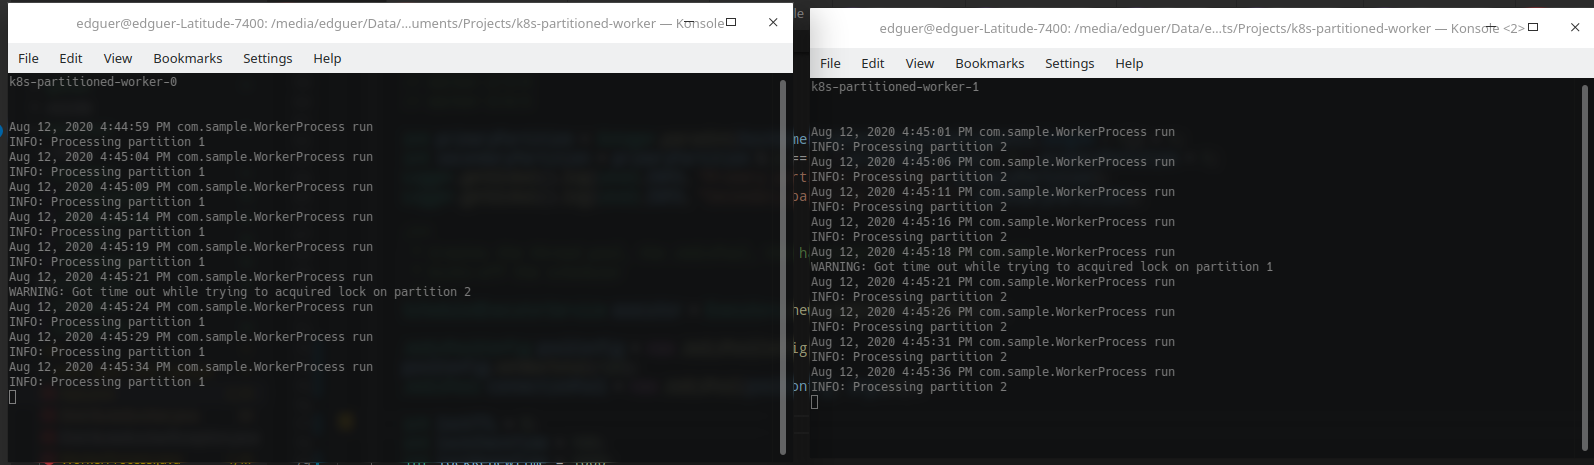
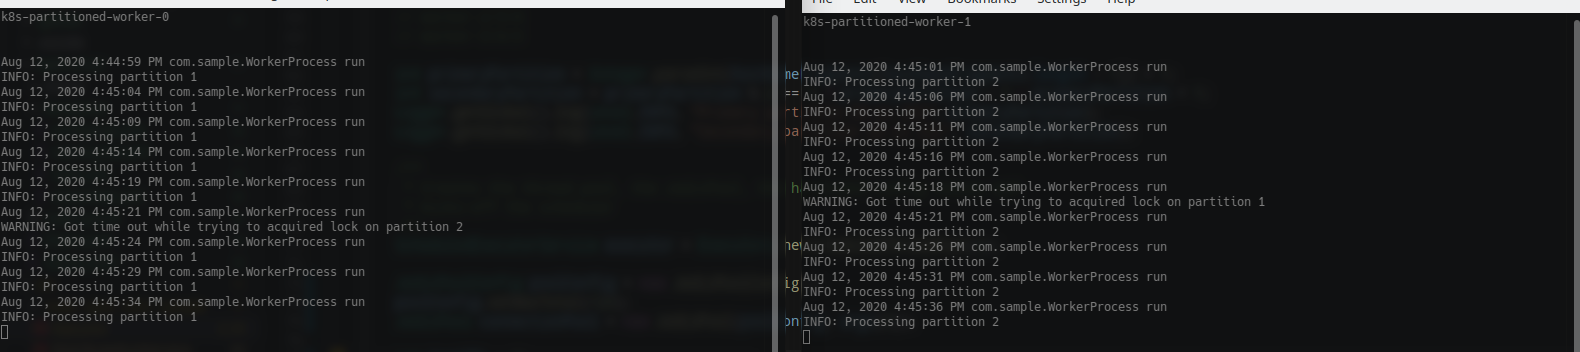
Finished documentation

diff --git a/README.md b/README.md
@@ -1,6 +1,6 @@
 # Kubernetes Partitioned Worker with Redis
 
-This is an example on how to build a partitioned batch worker for a Kubernetes cluster.
+This is an example on how to build a partitioned batch worker for a Kubernetes cluster in Java with Redis.
 
 ## Problem statement
 
@@ -27,7 +27,7 @@ For example, let's say we have a couple of workers:
 
 In a regular, healthy environment, worker1 will always process partition 1, and worker2 always processes partition 2. Now suppose the server2 goes down. What must happen is that worker1 will take both partition 1 and 2, and, as soon as worker2 comes back online, it starts processing the partition 2 again, so worker1 can release partition 2 and focus only on partition 1.
 
-However, how worker1 knows that worker2 stopped processing those items? Seems like RPC communication would solve it, but it would mean more complexity, exposing ports, standing up tiny RPC server threads (with gRPC, let's say), but turns out there is better solution if a shared memory cluster is at hand (such as Memcache or Redis): building a distributed locking system.
+However, how worker1 knows that worker2 stopped processing those items? Seems like RPC communication would solve it, but it would mean more complexity, exposing ports, standing up tiny RPC server threads (with gRPC, let's say), but turns out there is a better solution if a shared memory cluster is at hand (such as Memcache or Redis): building a distributed locking system.
 
 ### Failover and Locking
 
@@ -35,14 +35,79 @@ The idea is simple: mimic a regular multi-thread locking mechanism (```lock``` k
 
 ### Distributed Locker Implementation
 
-The distributed locker algorithm implementation reference can be found [here](https://redislabs.com/ebook/part-2-core-concepts/chapter-6-application-components-in-redis/6-2-distributed-locking/6-2-3-building-a-lock-in-redis/).
+The distributed locker algorithm implementation reference can be found [here](https://redislabs.com/ebook/part-2-core-concepts/chapter-6-application-components-in-redis/6-2-distributed-locking/6-2-3-building-a-lock-in-redis/). Notice that the implementation only works on a single master Redis deployment. For a multi-master locking algorithm, see the Redlock approach [here](https://redis.io/topics/distlock).
 
 ## Kubernetes Deployment
 
 We opted to use a Kubernetes StatefulSet, since it gives each POD a fixed name (example: worker-0, worker-1 etc) which can be used to infer the partition name. A Cronjob could be used, however we would need to have one Cronjob, with a different name, per partition - with Helm it could be done dynamically, but the StatefulSets seem to be better suited.
 
+## Working example
+
+Running the solution, we expect 3 things to happen:
+1. In a healthy environment, each worker only processes its primary partition data.
+2. If a worker goes down, someone takes over its partition.
+3. When a worker comes back online, it takes back the ownership of the partition.
+
+This first image shows the condition 1:
+
+![Condition 1](./img/running.png)
+
+k8s-partitioned-worker-0 is primarily concerned about partition 1, and k8s-partitioned-worker-1 about partition 2. Both are only processing their corresponding primary partition. Notice they are getting timeout while trying to acquire the lock on the secondary partition: that is expected, since that partition will never be released, as long as all the pods are healthy.
+
+The picture below illustrates what happens when k8s-partitioned-worker-1 gets deleted (kubectl delete pod):
+
+![Condition 2](./img/worker-1-stopped.png)
+
+k8s-partitioned-worker-0 immediately takes over partition 2, so now it is processing both partitions. After sometime, when k8s-partitioned-worker-1 comes back online, k8s-partitioned-worker-0 releases partition 2 and life comes back to normal:
+
+![Condition 3](./img/worker-1-after-stopped.png)
+
 ## Code & Solution
+
+It is a Java Maven project, so the source files are located under /src folder, with the pom.xml file in the root. For simplicity and readability, there is no layer separation, so all classes are located under /src/main/java/com/sample. Here is the class list:
+
+- App.java: application entrypoint, starts Redis connection and kicks-off the worker threads.
+- WorkerProcess.java: the worker timer task, where the worker logic resides.
+- DistributedLocker.java: Redis locker implementation.
+- DistributedLockerException.java: generic locker exception.
+
+For a production-ready code, we recommend the use of separated layers for business logic (service classes or domain models) and data access (repository, data mapper and so on), and, of course, removing the hard-coded configurations.
 
 ## Build & Run
 
+To run the application locally, the following dependencies are required:
+- Java 12 or newer
+- Maven 3 or newer
+- Redis cluster up and running (could be local)
+
+To run it, just use the following command line:
+```bash
+mvn clean package exec:java  -Dexec.args="localhost"
+```
+
+Change "localhost" to your Redis cluster address. Notice that the solution relies on a StatefulSet host name, meaning it should end with "-[a number]" (e.g.: worker-1), and it will fail if that pattern is not followed. If your host name doesn't use that pattern, just change the App.java file, but don't forget to revert the changes before deploying it to Kubernetes.
+
 ## Deployment
+
+The solution is prepared for a Kubernetes deployment, so 2 steps should be taken to run it in a cluster.
+
+### 1. Build and push image
+
+After building the solution with maven, the Docker image should be built. Of course, you will need Docker for it:
+
+```bash
+docker build -t k8s-partitioned-worker .
+```
+
+Next step is to push the image to your private repository (e.g.: Azure Container Registry). 
+
+### 2. Deploy Helm Chart
+
+Before moving on, make sure your Kubernetes cluster is attached to your private registry. For a Azure Kubernetes Service, you can easily do that by running ```az aks update -n [cluster name] -g [rg name] --attach-acr [acr name]```. If you don't have that alternative, a change in the Kubernetes deployment template may be necessary (for adding a secret reference for image pulling), so go on and change the ./helm-chart/templates/statefulset.yml.
+
+As the solution uses a Helm chart, Helm 3 or above should be installed in your local environment. After that, connect your kubectl to the cluster and run the following command in the root folder of the project:
+
+```bash
+helm upgrade --install --set imageName=[registry address]/[image name from step 1] k8s-partitioned-worker ./helm-chart/
+```
+
